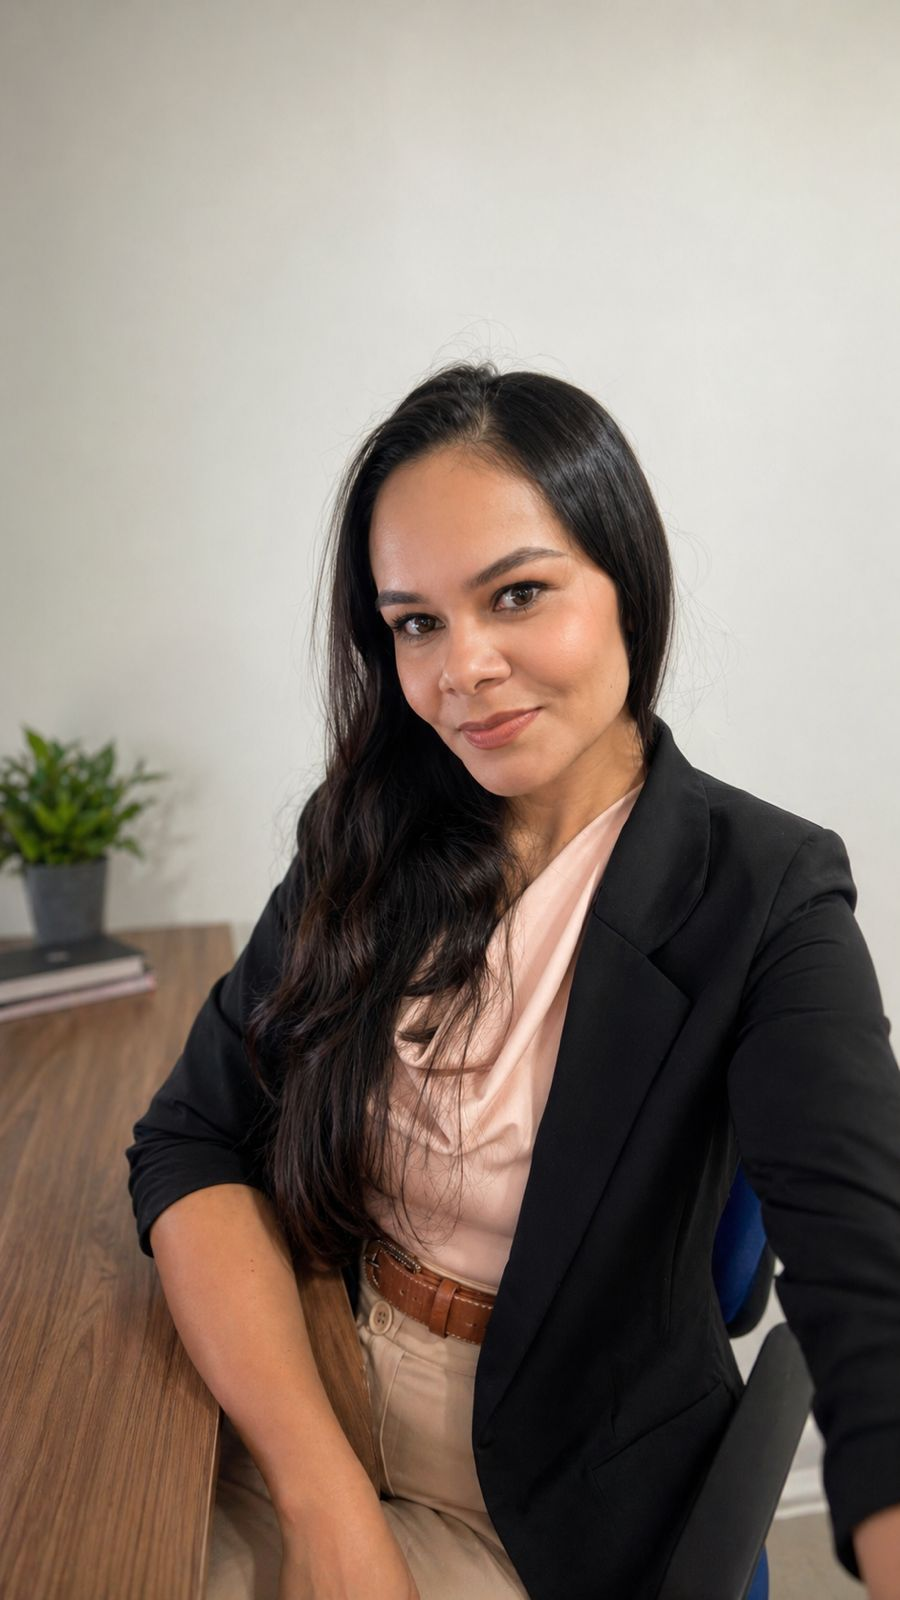
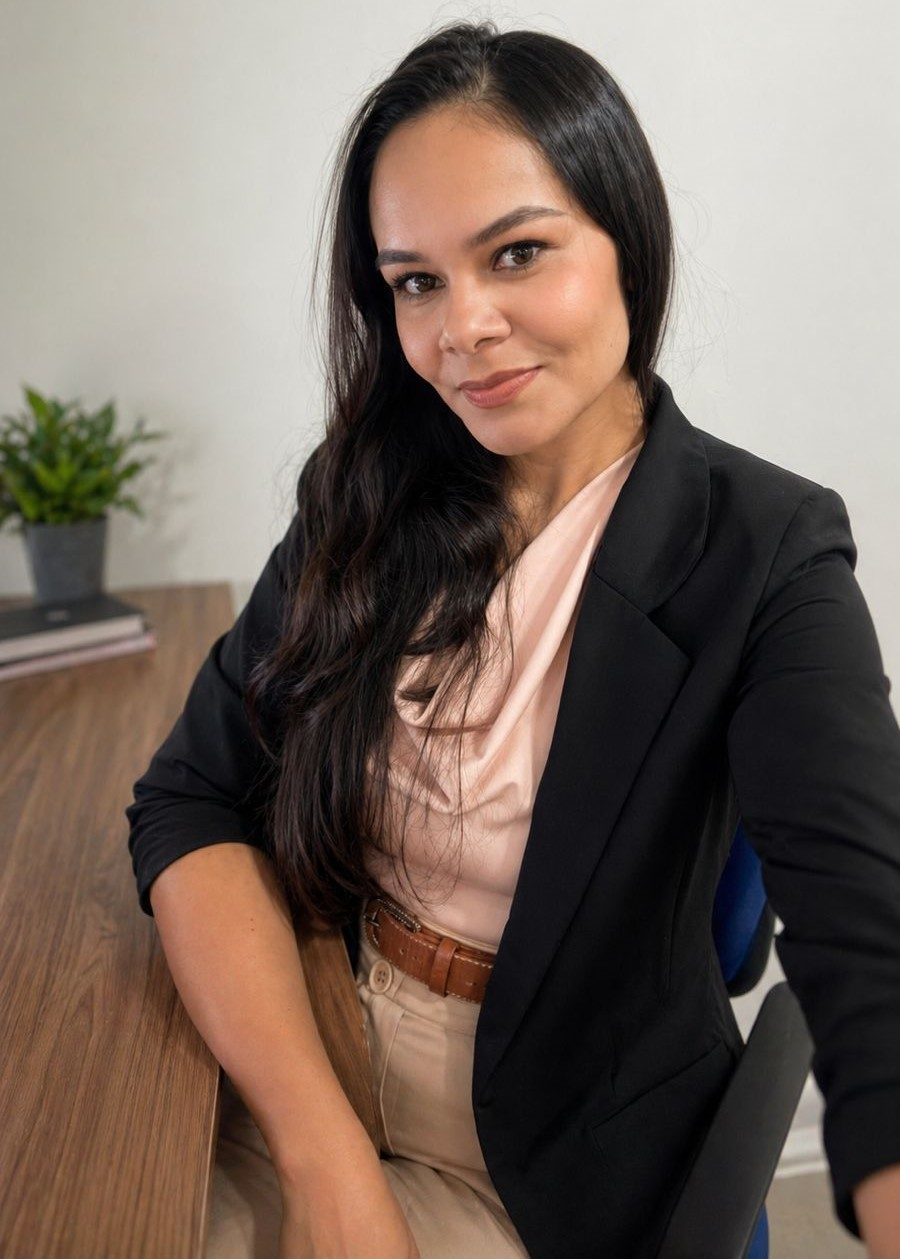
Alteracao Foto, posicao foto cel e pequenos ajustes

diff --git a/js/main.js b/js/main.js
@@ -81,12 +81,22 @@ document.addEventListener('DOMContentLoaded', () => {
   const el = document.getElementById('link-email');
   if (el) el.href = `mailto:${SITE.contato.email}`;
 
-  // Logo fallback
+  // Logo fallback — nav
   const logoImg = document.getElementById('nav-logo-img');
   if (logoImg) {
     logoImg.onerror = () => {
       logoImg.style.display = 'none';
       document.getElementById('nav-logo-fallback').style.display = 'block';
+    };
+  }
+
+  // Logo fallback — footer
+  const footerLogoImg = document.getElementById('footer-logo-img');
+  if (footerLogoImg) {
+    footerLogoImg.onerror = () => {
+      footerLogoImg.style.display = 'none';
+      const fn = document.getElementById('footer-nome');
+      if (fn) fn.style.display = 'inline';
     };
   }
 

diff --git a/css/style.css b/css/style.css
@@ -223,7 +223,7 @@ img { max-width: 100%; height: auto; display: block; }
 
 .sobre-visual { position: sticky; top: 6rem; }
 .cintia-wrap { position: relative; border: 1px solid var(--borda); border-top: 2px solid var(--ouro); margin-bottom: 1.4rem; background: var(--preto3); overflow: hidden; }
-.cintia-foto { width: 100%; aspect-ratio: 3/4; object-fit: cover; object-position: top center; }
+.cintia-foto { width: 100%; aspect-ratio: 3/4; object-fit: cover; object-position: 50% 20%; }
 .cintia-placeholder { width: 100%; aspect-ratio: 3/4; display: flex; align-items: center; justify-content: center; }
 .cintia-placeholder span { font-family: var(--ft); font-size: 6rem; font-weight: 300; color: rgba(201,168,76,.2); }
 .cintia-nome { font-family: var(--ft); font-size: 1.8rem; font-weight: 400; color: var(--creme); }
@@ -353,7 +353,9 @@ footer {
 .footer-links { display: flex; gap: 1.2rem; flex-wrap: wrap; justify-content: center; }
 .footer-links a { font-size: .72rem; color: var(--txt-mudo); opacity: .6; transition: opacity .2s; }
 .footer-links a:hover { opacity: 1; }
-.footer-grupo { font-size: .72rem; color: var(--txt-mudo); opacity: .5; }
+.footer-dev { text-align: right; }
+.footer-dev-label { display: block; font-size: .63rem; letter-spacing: .14em; text-transform: uppercase; color: var(--txt-mudo); opacity: .5; margin-bottom: .2rem; }
+.footer-dev-name { display: block; font-size: .78rem; color: var(--ouro); font-weight: 500; letter-spacing: .03em; opacity: .75; }
 
 /* ── WHATSAPP FLOAT ──────────────────────────────────────────── */
 .whatsapp-float {
@@ -402,7 +404,8 @@ footer {
 
   /* Hero */
   .hero-body          { grid-template-columns: 1fr; min-height: auto; gap: 1rem; }
-  .hero-img-wrap      { order: -1; padding-bottom: .5rem; }
+  .hero-line          { display: none; }
+  .hero-img-wrap      { padding-top: .5rem; }
   .hero-cel           { width: 50%; max-width: 260px; margin: 0 auto; }
 
   /* Planos — empilha antes dos 900px */
@@ -493,7 +496,7 @@ footer {
   }
   .footer-logo  { order: 1; }
   .footer-mid   { order: 2; }
-  .footer-grupo { order: 3; }
+  .footer-dev   { order: 3; text-align: center; }
   .footer-links { gap: 1rem; }
   .footer-logo img { height: 24px; }
 

diff --git a/index.html b/index.html
@@ -63,7 +63,7 @@
 
   <div class="hero-body">
     <div class="hero-txt">
-      <span class="hero-badge">BPO Financeiro · Uberlândia-MG · Todo o Brasil</span>
+      <span class="hero-badge">BPO Financeiro para PMEs · Gerente Exclusiva · Todo o Brasil</span>
       <h1 class="hero-title">
         Financeiro organizado<br>
         é <em>crescimento</em><br>
@@ -260,7 +260,7 @@
 <!-- ═══════════ FOOTER ═══════════ -->
 <footer>
   <div class="footer-logo">
-    <img src="./img/mora_fclaro.png" alt="Moara BPO Financeiro" onerror="this.style.display='none';document.getElementById('footer-nome').style.display='inline'">
+    <img src="./img/mora_fclaro.png" alt="Moara BPO Financeiro" id="footer-logo-img">
     <span id="footer-nome" class="footer-nome-text" style="display:none" data-empresa-nome></span>
   </div>
   <div class="footer-mid">
@@ -273,7 +273,10 @@
       <a href="#contato">Contato</a>
     </nav>
   </div>
-  <span class="footer-grupo" data-empresa-grupo></span>
+  <div class="footer-dev">
+    <span class="footer-dev-label">Desenvolvido por</span>
+    <strong class="footer-dev-name">RC Tech Soluções Tecnológicas</strong>
+  </div>
 </footer>
 
 <!-- ═══════════ WHATSAPP FLOAT ═══════════ -->